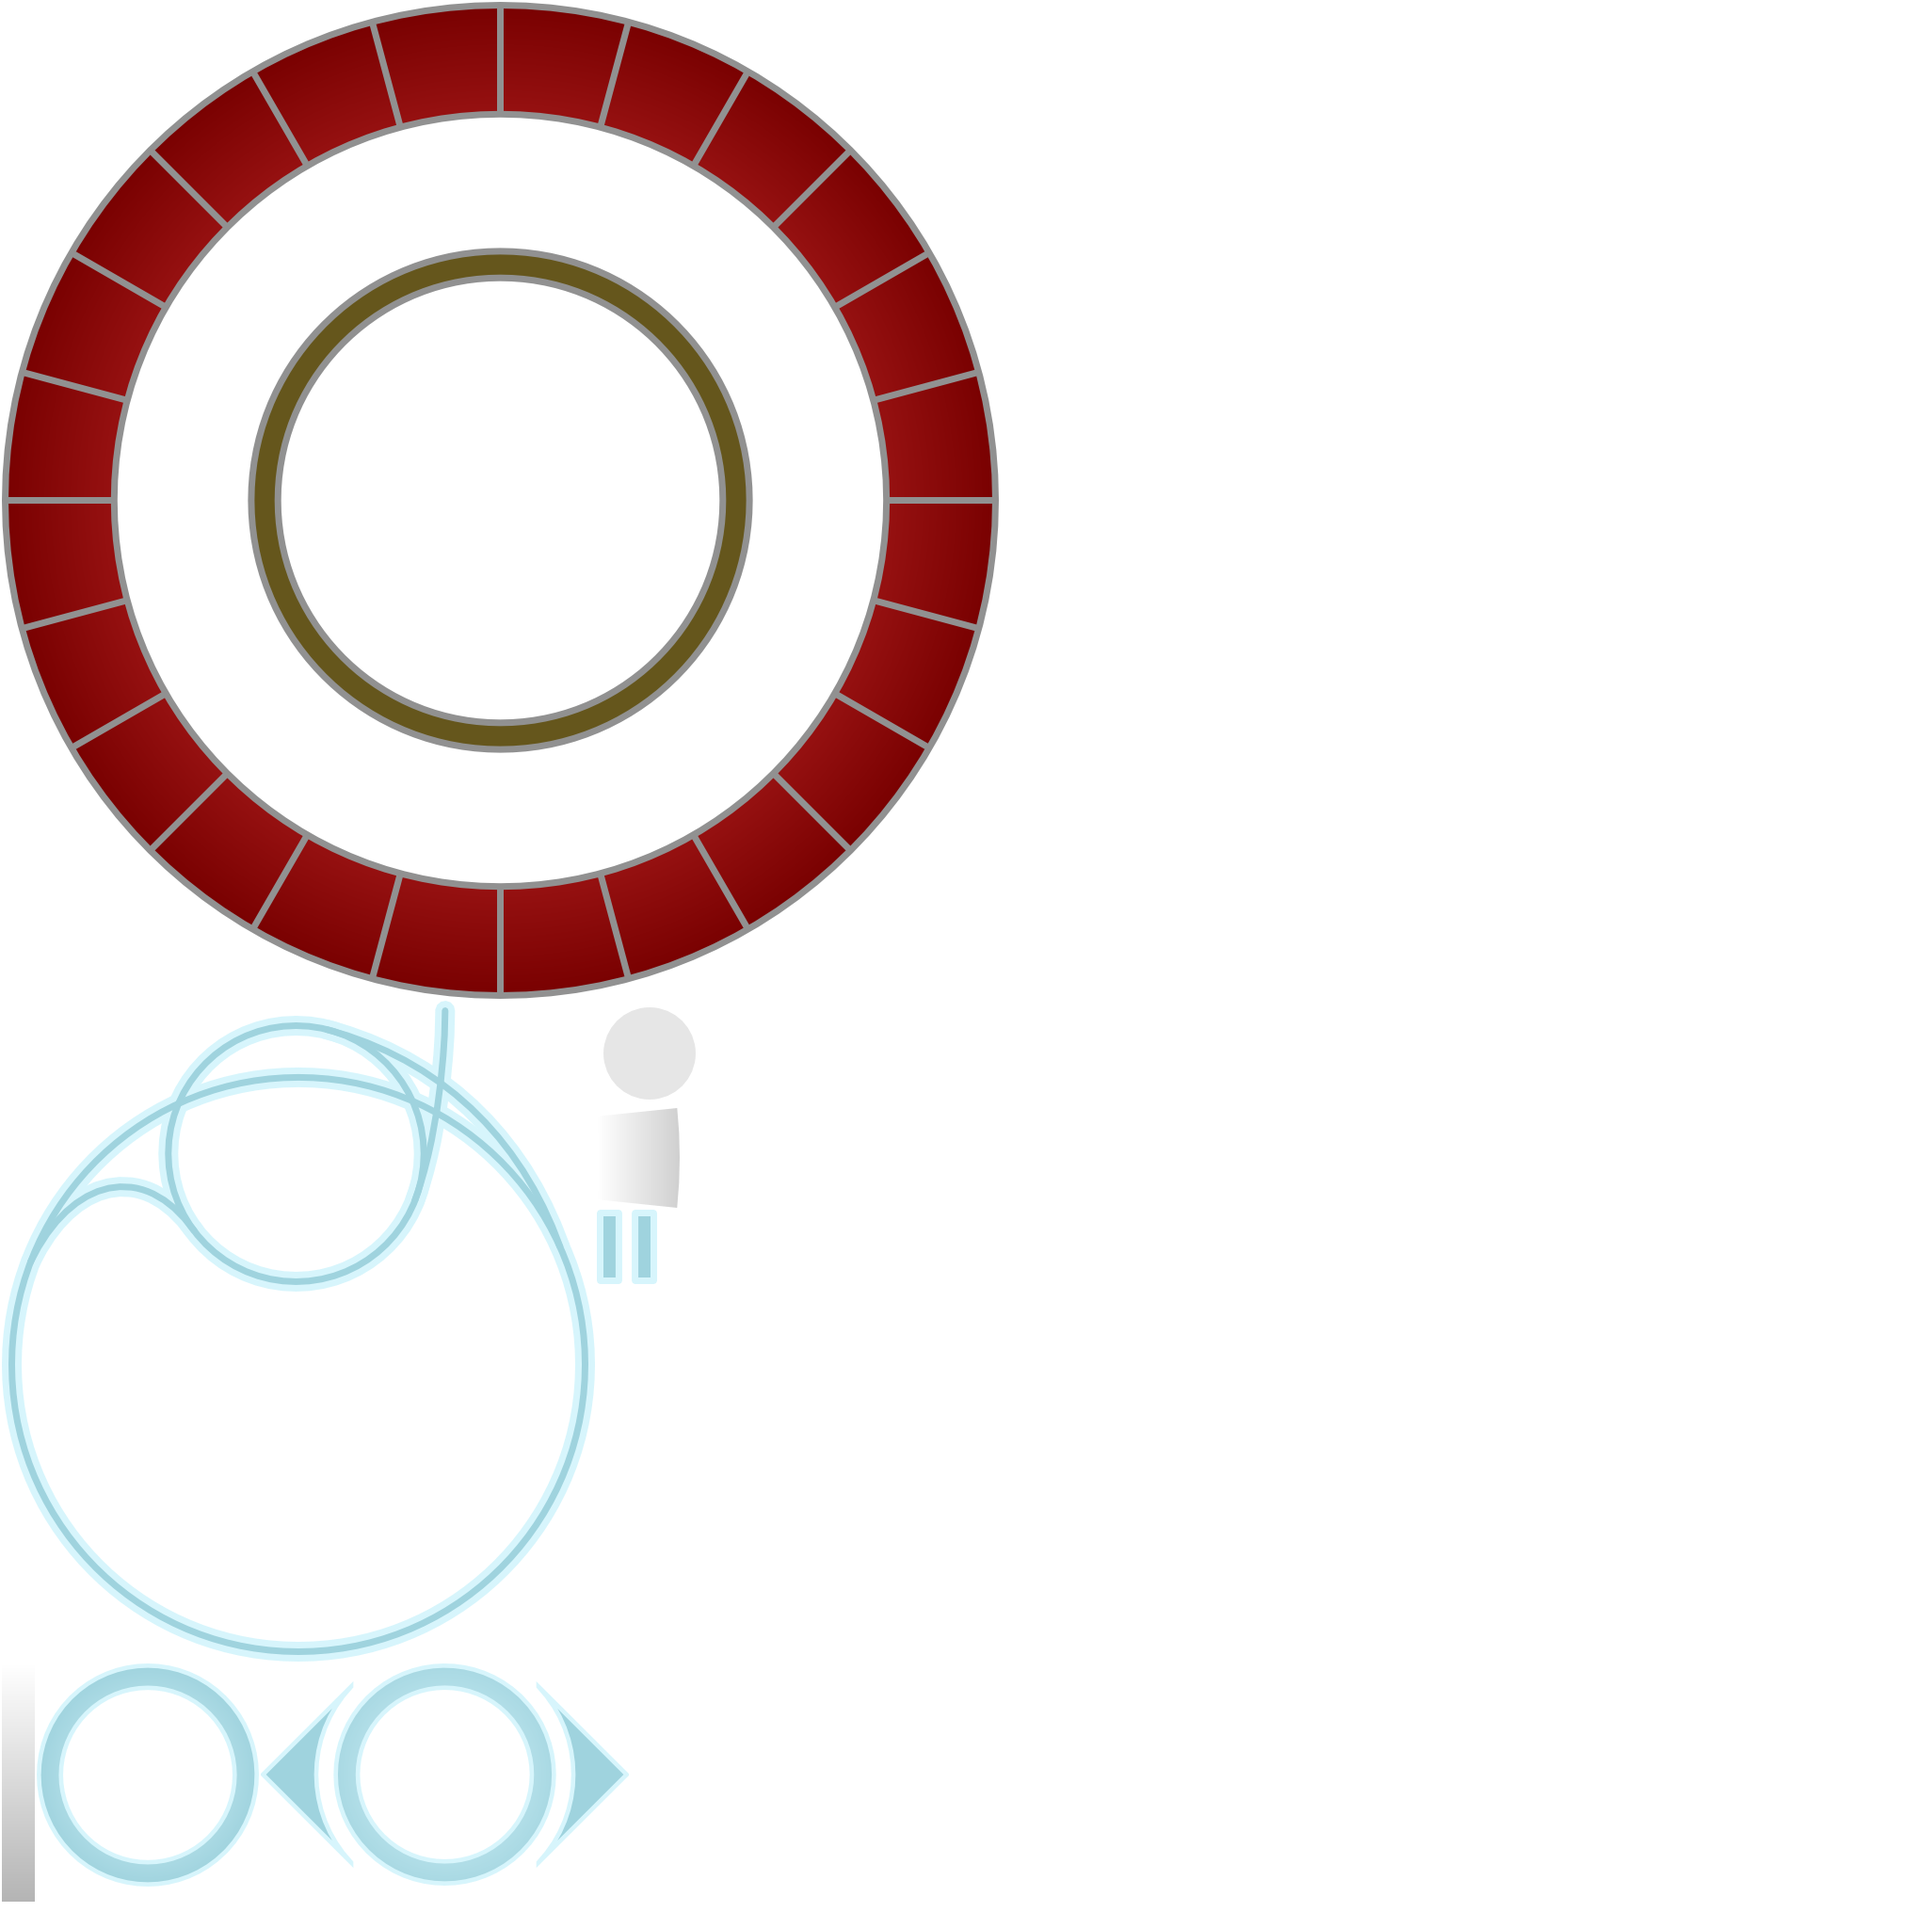
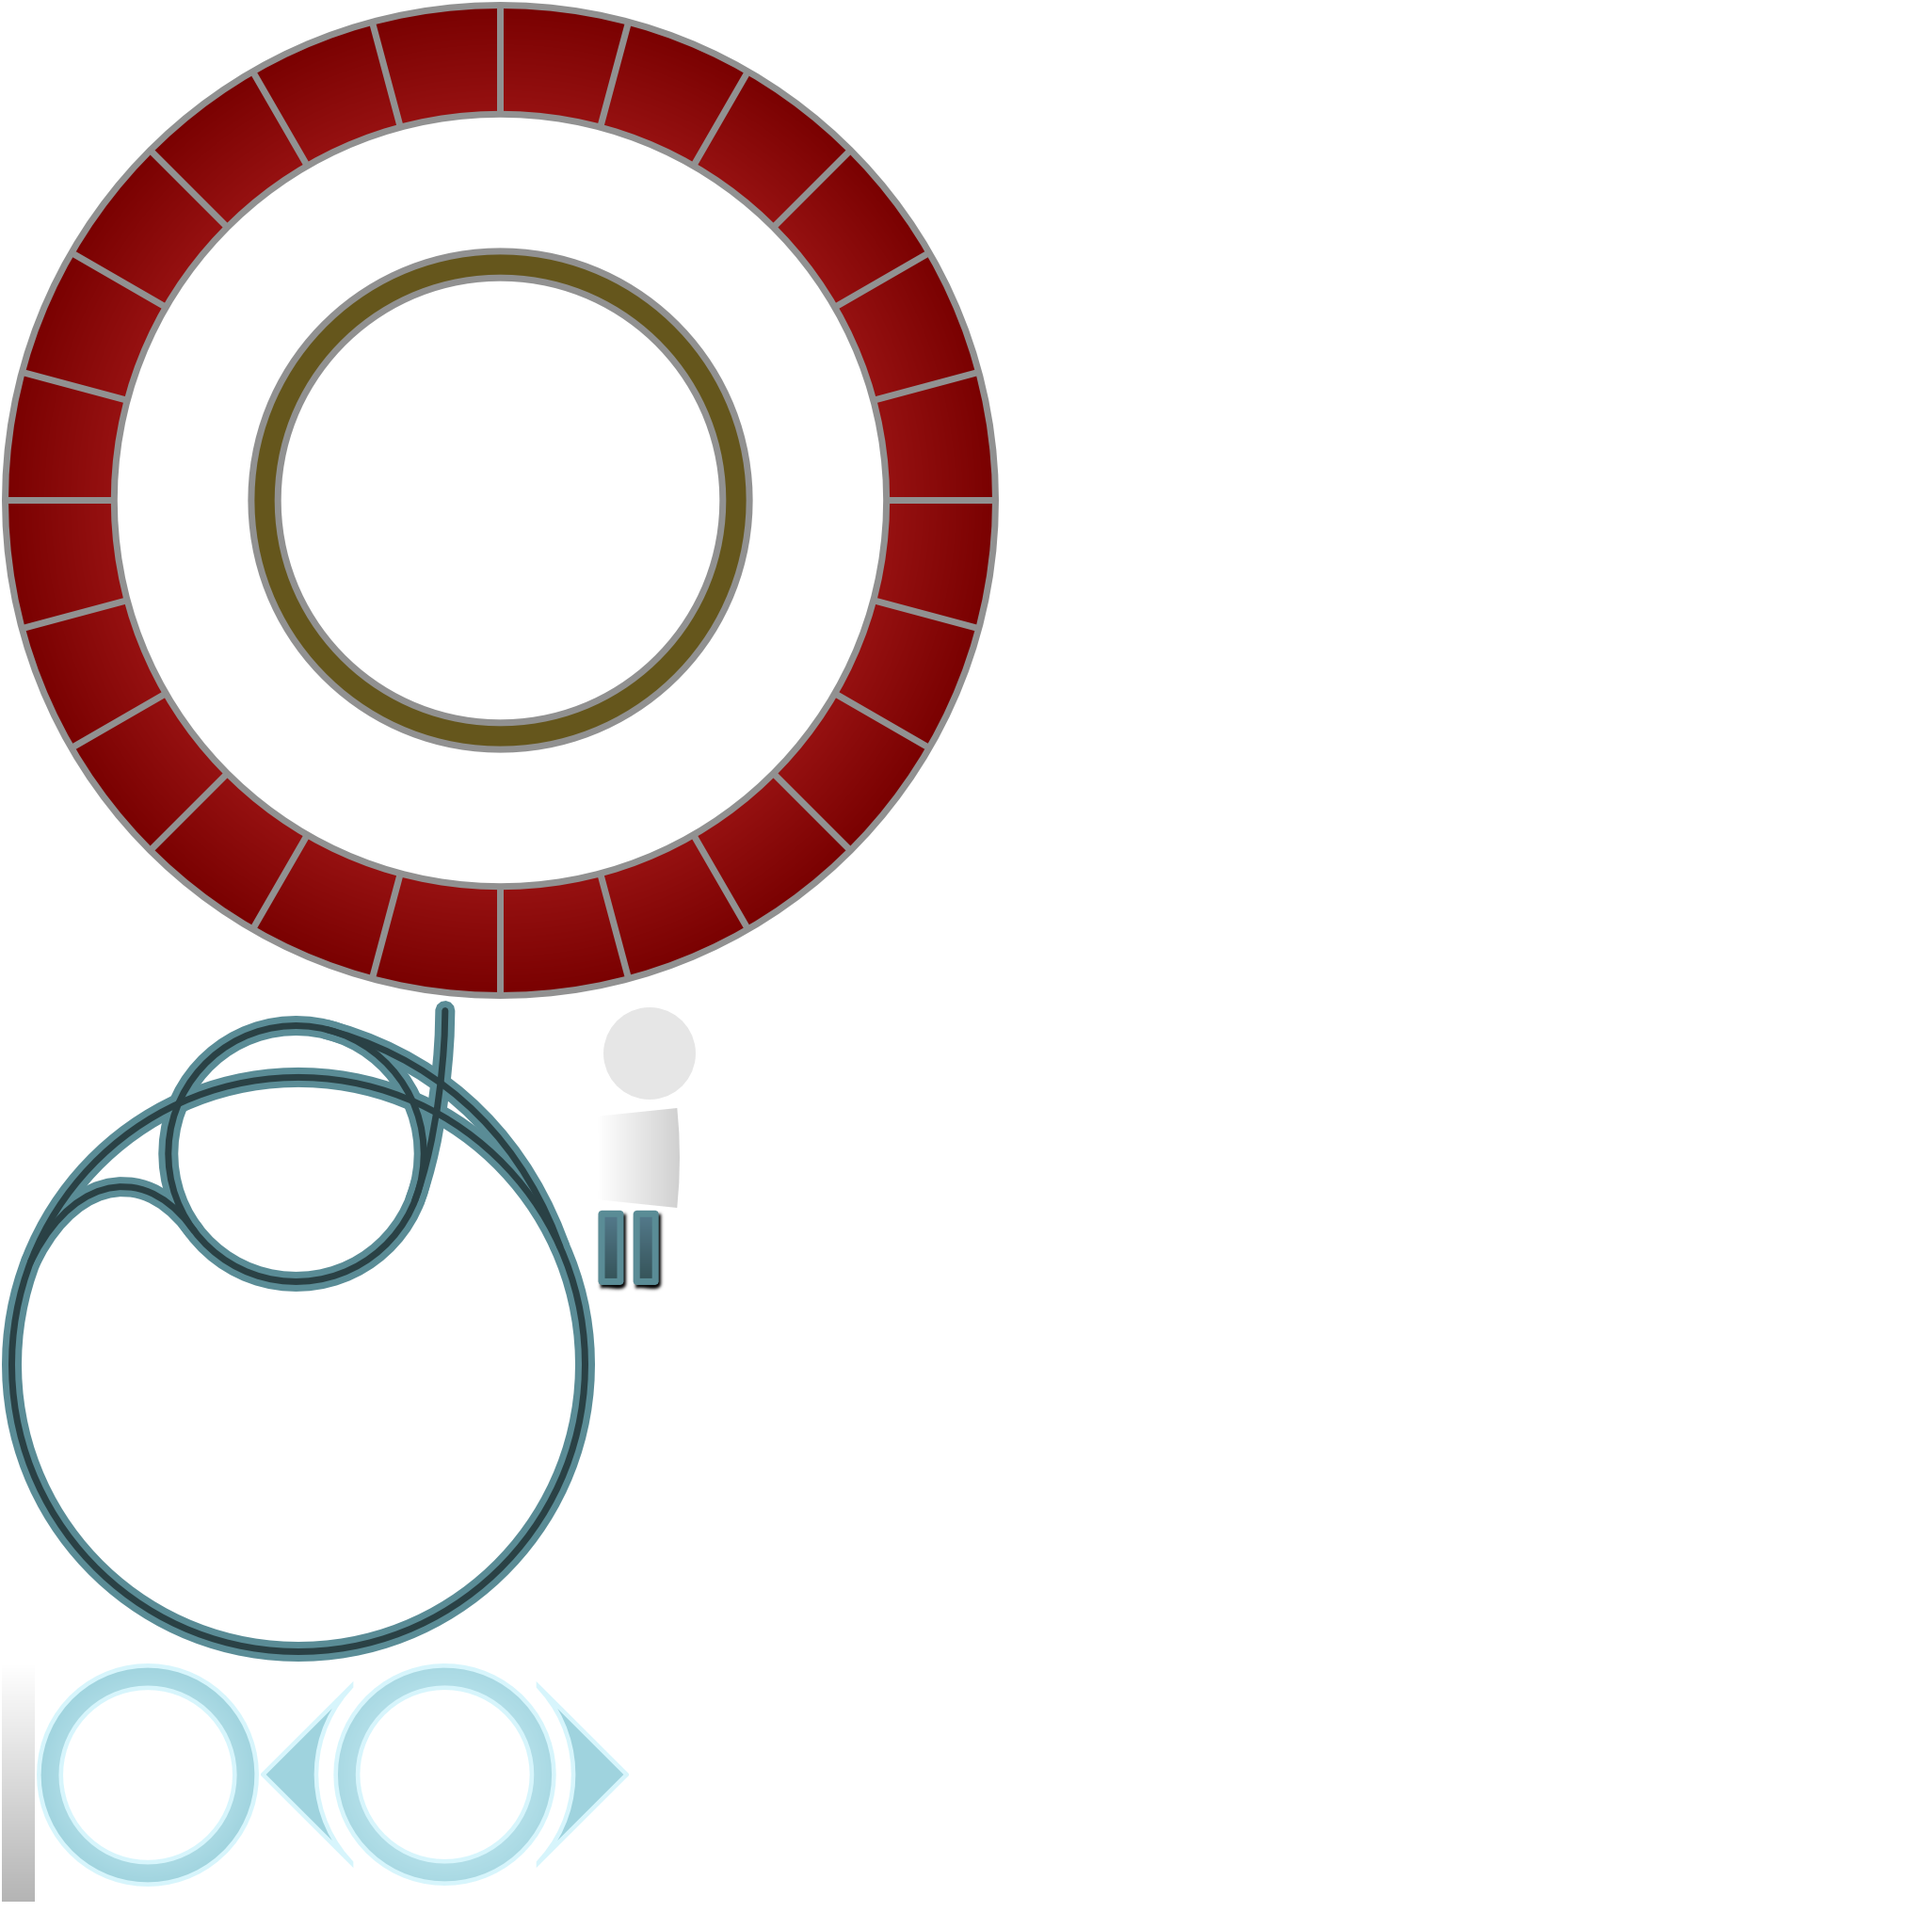
Adjusted colors to make UI easier to read.

diff --git a/CharmQuark/Classes/GameplayLayer.m b/CharmQuark/Classes/GameplayLayer.m
@@ -331,13 +331,16 @@ void collisionSeparate(cpArbiter *arb, cpSpace *space, GameplayLayer *self)
 }
 
 -(void) launch {
-//    PLAYSOUNDEFFECT(PARTICLE_LAUNCH, 1.0);
-
+    // Launch!
+    if (mode == kGameSceneSurvival) {
+        timeRemaining = dropFrequency;   
+    }
+    lastLaunch = 0;
+    
     // Calculate launch position and vector.
     cpVect rot = cpvforangle(CC_DEGREES_TO_RADIANS(centerNode.rotation));
     CGPoint pos = cpvrotate(rot, kLaunchPoint);
     cpVect launchVect = cpvmult(cpvnormalize(cpvsub(ccp(0,0), pos)), kLaunchV);
-
 
     // Set position and velocity of particle.
     Particle *particle = [self readyNextParticle];
@@ -612,9 +615,10 @@ void collisionSeparate(cpArbiter *arb, cpSpace *space, GameplayLayer *self)
                     [self end:nil]; // Game over.
                     break;
                 case kGameSceneSurvival:
-                default:
                     [self drop];
+                    break;
                 case kGameSceneMomMode:
+                default:
                     timeRemaining = dropFrequency;
                     break;
             }
@@ -766,14 +770,12 @@ void collisionSeparate(cpArbiter *arb, cpSpace *space, GameplayLayer *self)
             levelLabel= [CCLabelBMFont labelWithString:@"2:00.00" fntFile:@"score.fnt"];
             levelLabel.position = levelPosition;
             levelLabel.color = kColorUI;
-//            levelLabel.opacity = 230;
             [self addChild:levelLabel z:kZUIElements];
             break;
         case kGameSceneSurvival:
             levelLabel = [CCLabelBMFont labelWithString:@"Level 1" fntFile:@"score.fnt"];
             levelLabel.position = levelPosition;
             levelLabel.color = kColorUI;
-//            levelLabel.opacity = 230;
             [self addChild:levelLabel z:kZUIElements];
             break;
         default:
@@ -814,7 +816,7 @@ void collisionSeparate(cpArbiter *arb, cpSpace *space, GameplayLayer *self)
     // Add the thumb guides.
     thumbGuide = [CCSprite spriteWithSpriteFrameName:@"thumbguide.png"];
     thumbGuide.opacity = 0;
-    [uiBatchNode addChild:thumbGuide z:kZUIElements];
+    [uiBatchNode addChild:thumbGuide z:kZUIElements - 1];
     
     fireButton = [CCSprite spriteWithSpriteFrameName:@"firebutton.png"];
     fireButton.opacity = 0;
@@ -917,10 +919,6 @@ void collisionSeparate(cpArbiter *arb, cpSpace *space, GameplayLayer *self)
 {
     for (UITouch *touch in touches) {
         if (touch == launchTouch) {
-            // Launch!
-            if (mode == kGameSceneSurvival) {
-                timeRemaining = dropFrequency;   
-            }
             [self launch];
             
             // Forget this touch.

diff --git a/CharmQuark/Classes/GameplayLayer.h b/CharmQuark/Classes/GameplayLayer.h
@@ -59,6 +59,7 @@
 #define kShapeCollisionType     1
 #define kSensorCollisionType    2
 #define kUnitVectorUp           ccp(0, 1)
+#define kLaunchCoolDown         0.25
 
 enum {
 	kTagPacketBatchNode = 1,
@@ -90,15 +91,17 @@ enum {
     Detector *detector;
     LogViewer *logViewer;
     
-	// Touch handling
+	// Rotation handling
     UITouch *rotationTouch;
     NSTimeInterval rotationTouchTime;
 	CGPoint rotTouchPointInit;
 	CGPoint rotTouchPointCur;
 	CGFloat centerNodeAngleInit;
     CGFloat rotAngleV;
-    
+
+    // Launch Handling
     UITouch *launchTouch;
+    ccTime lastLaunch;
     
     // Game State
     SceneTypes mode;

diff --git a/CharmQuark/Classes/Constants.h b/CharmQuark/Classes/Constants.h
@@ -16,8 +16,9 @@
 #define kColorBonus         ccc3(200, 200, 230)
 #define kColorTimeAdd       ccc3(200, 230, 200)
 #define kColorLevelUp       ccc3(230, 200, 200)
-#define kColorUI            ccc3(80, 120, 130)
-#define kColorButton        ccc3(120, 160, 170)
+#define kColorUI            ccc3(90, 140, 150)
+//#define kColorButton        ccc3(120, 160, 170)
+#define kColorButton        ccc3(140, 170, 180)
 #define kColorDialogRed     ccc3(160, 0, 0)
 #define kColorDialogGreen   ccc3(0, 160, 0)
 #define kPopupSpeed         0.3
